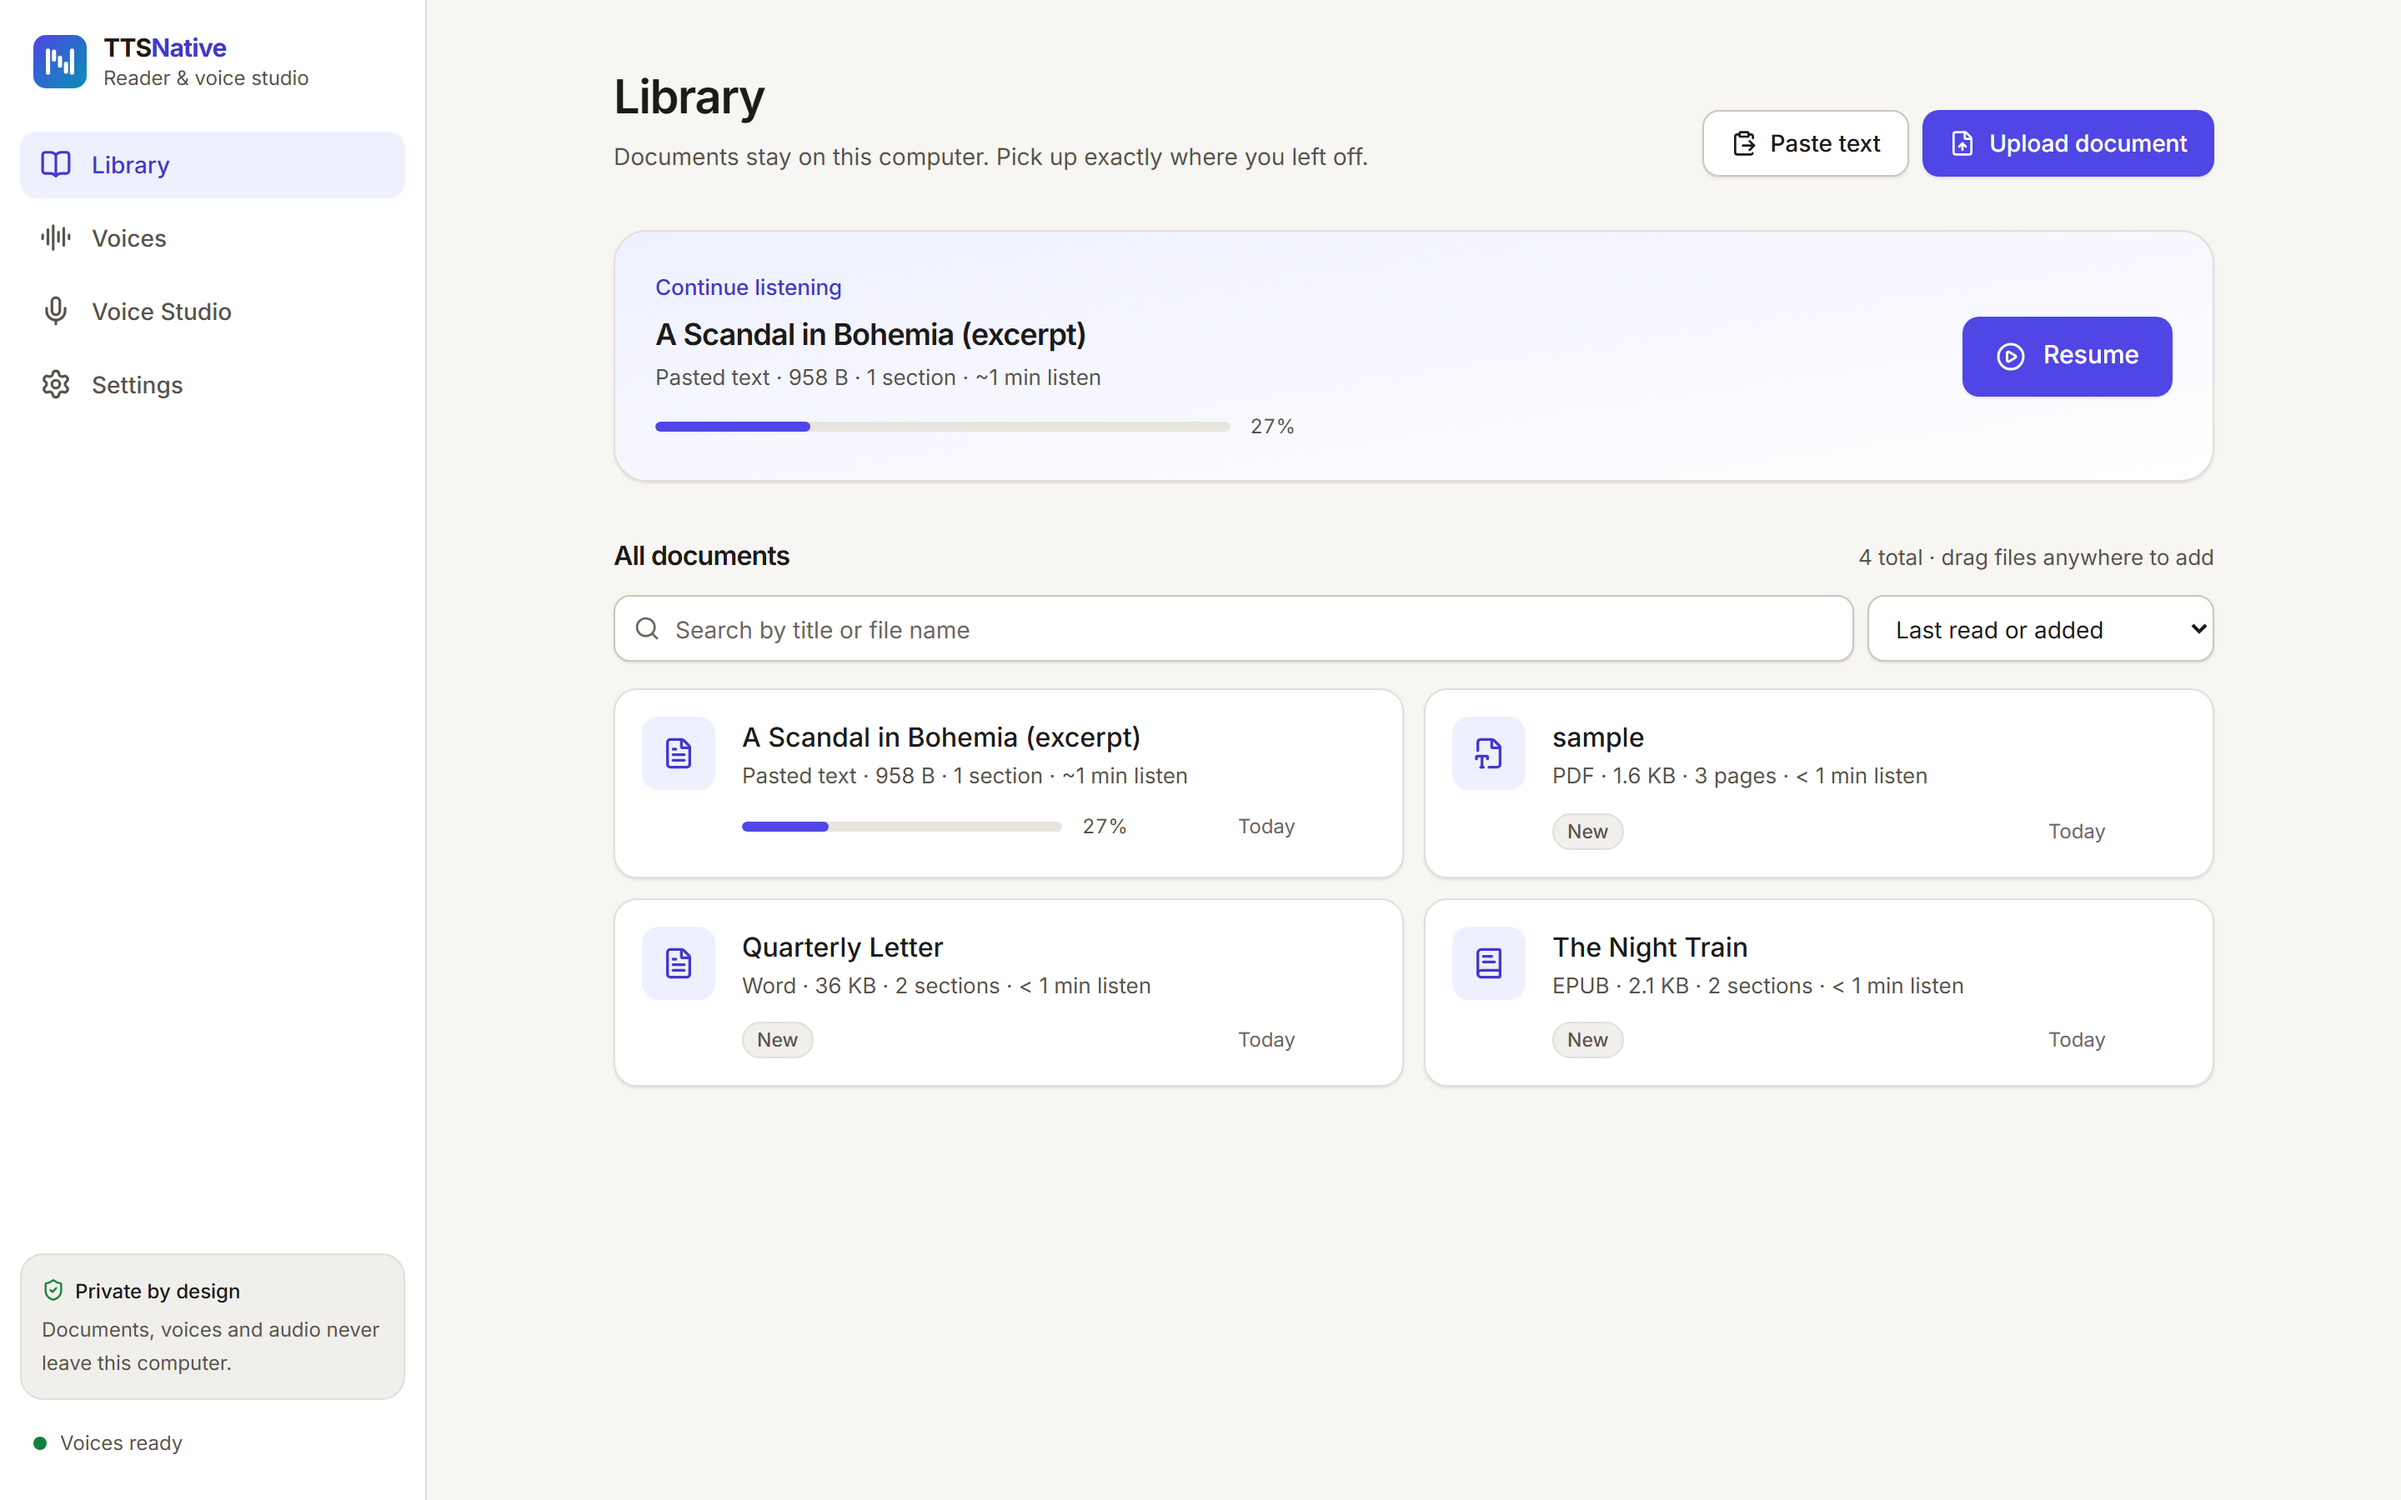
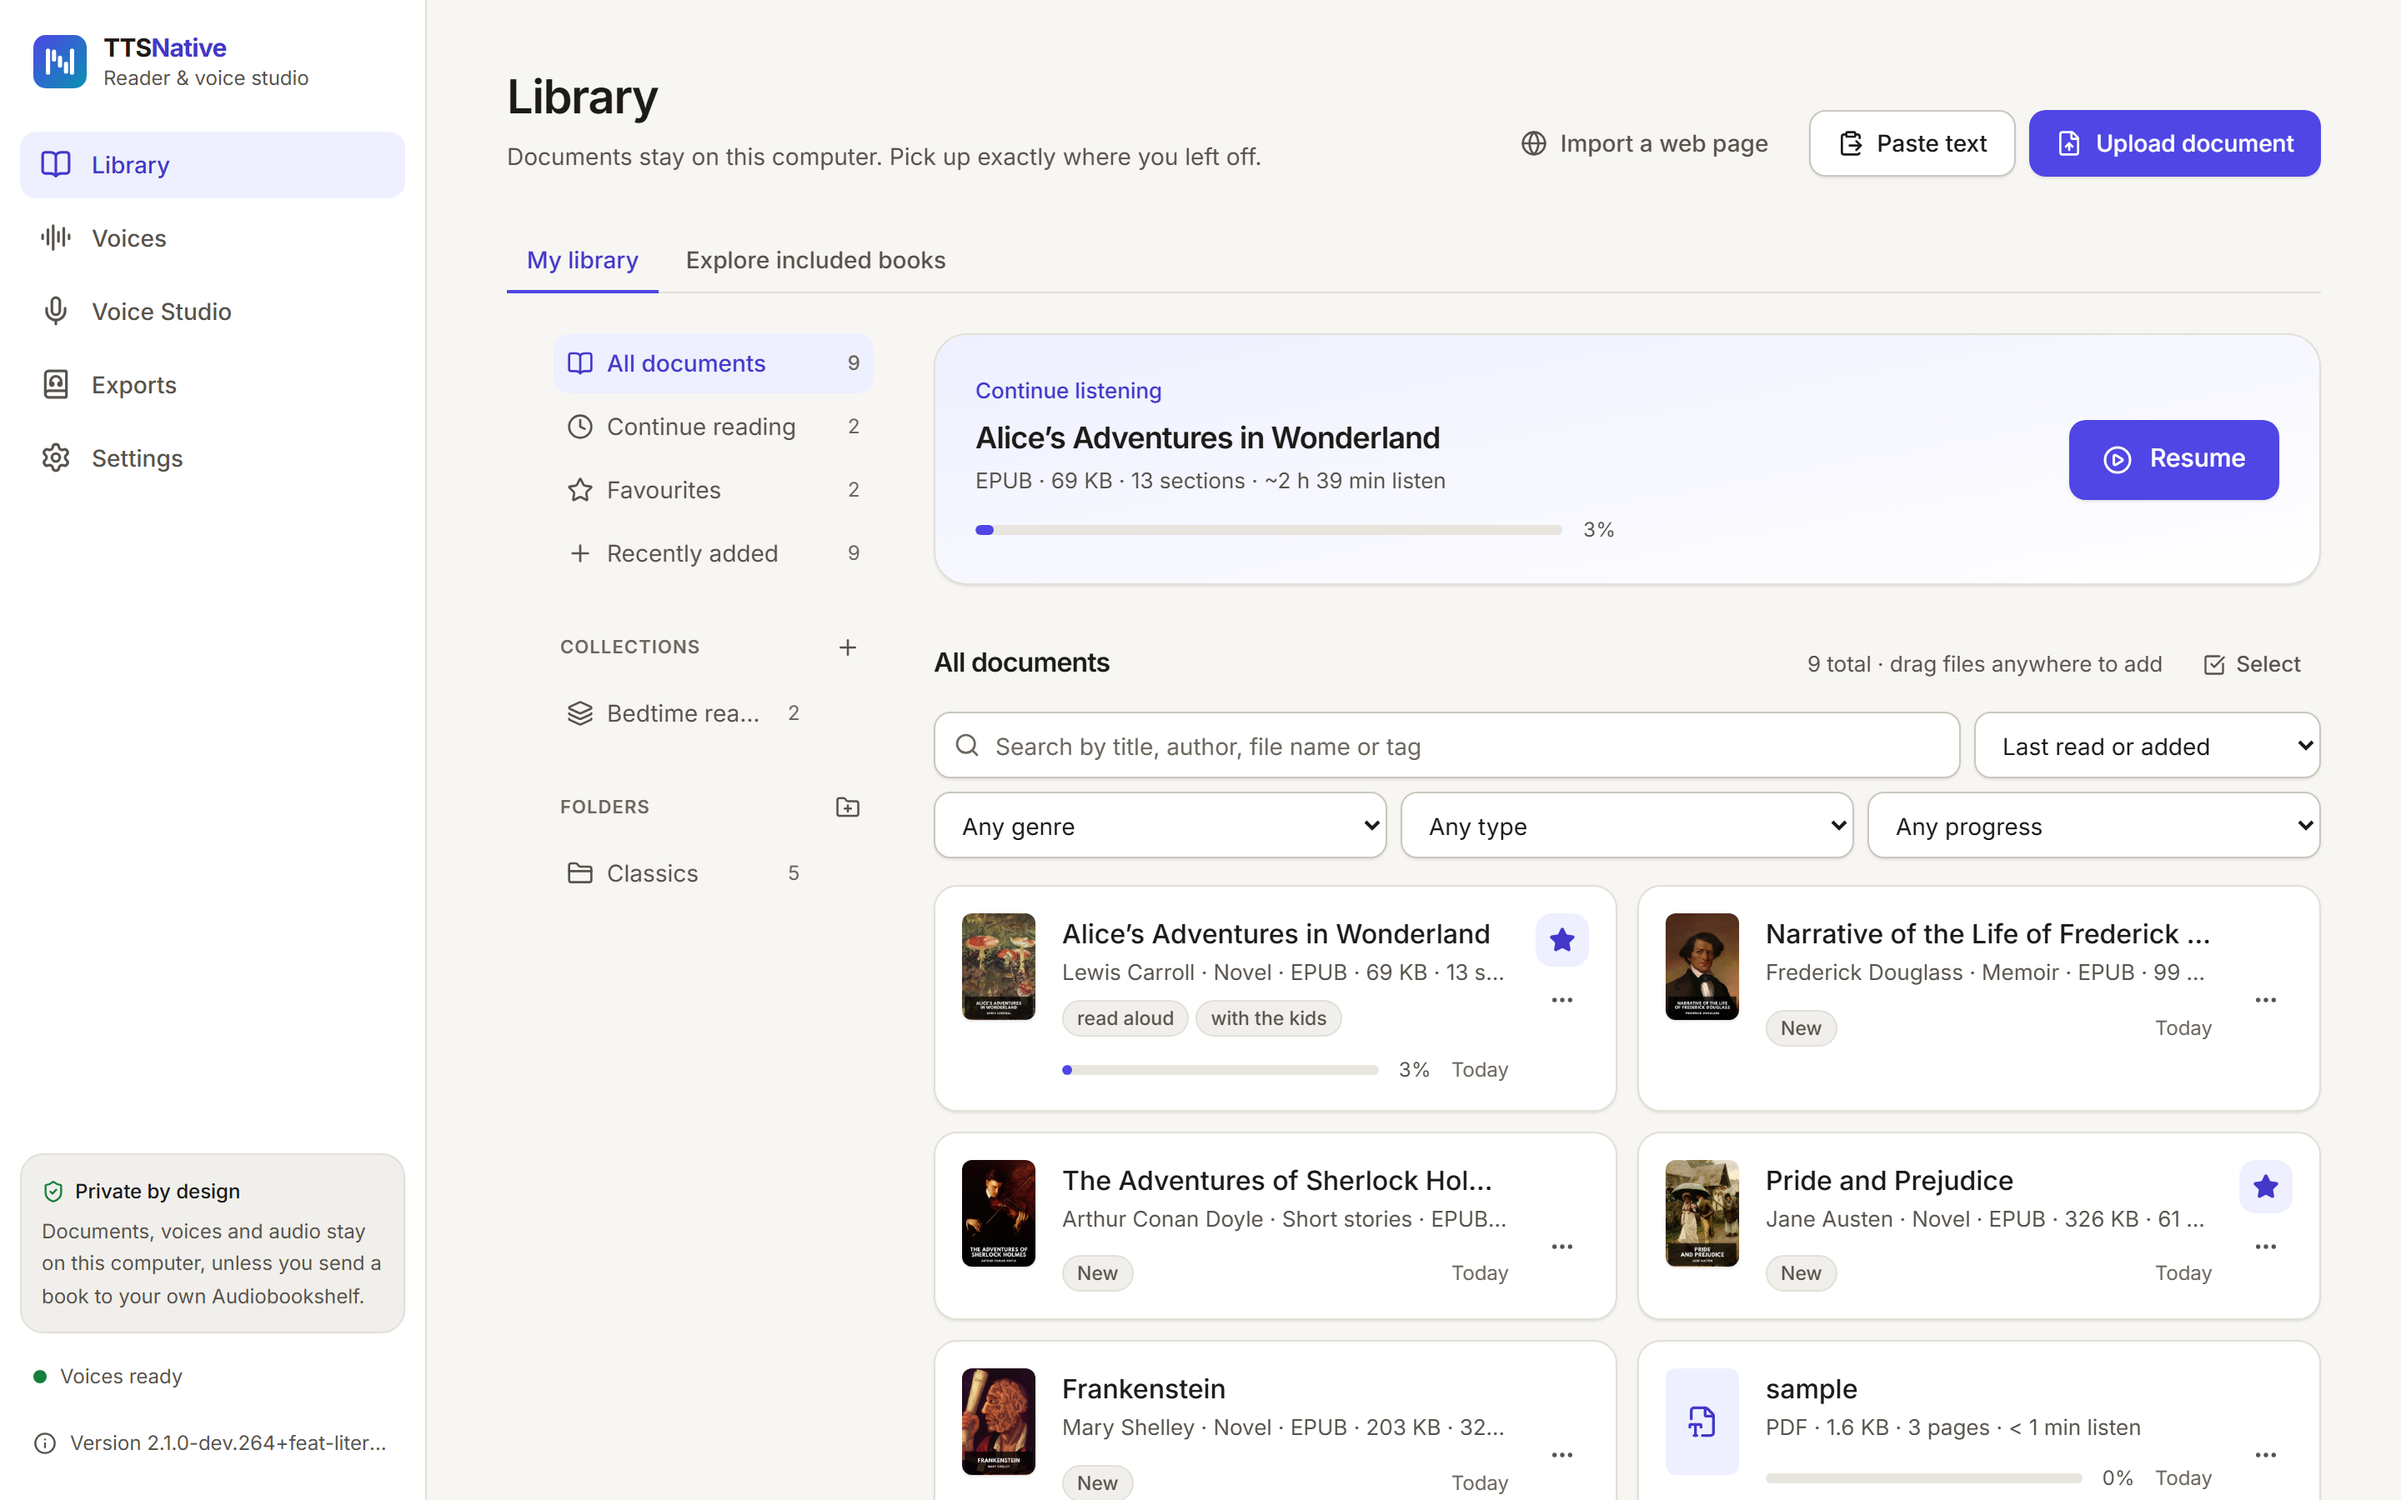
docs(site): screenshots from the running app: the library rail, Explore and a reading experience
The capture script opens five included books, organises them into a folder, a
collection and favourites, chooses Multi-voice for Alice before narration, and
adds an Explore image the website shows; on Windows it ends the server's whole
process tree so a stale server never serves old data to the next run.

diff --git a/site/index.html b/site/index.html
@@ -261,9 +261,19 @@
               width="1440"
               height="900"
               loading="lazy"
-              alt="The library with documents, progress and the continue-listening card"
+              alt="The library with its rail of folders, collections and favourites, book covers and reading progress"
             />
             <figcaption>Library</figcaption>
+          </figure>
+          <figure>
+            <img
+              src="images/explore.png"
+              width="1440"
+              height="900"
+              loading="lazy"
+              alt="Explore: the included public-domain books grouped by kind, with covers, descriptions and where each is public domain"
+            />
+            <figcaption>Included books</figcaption>
           </figure>
           <figure>
             <img
